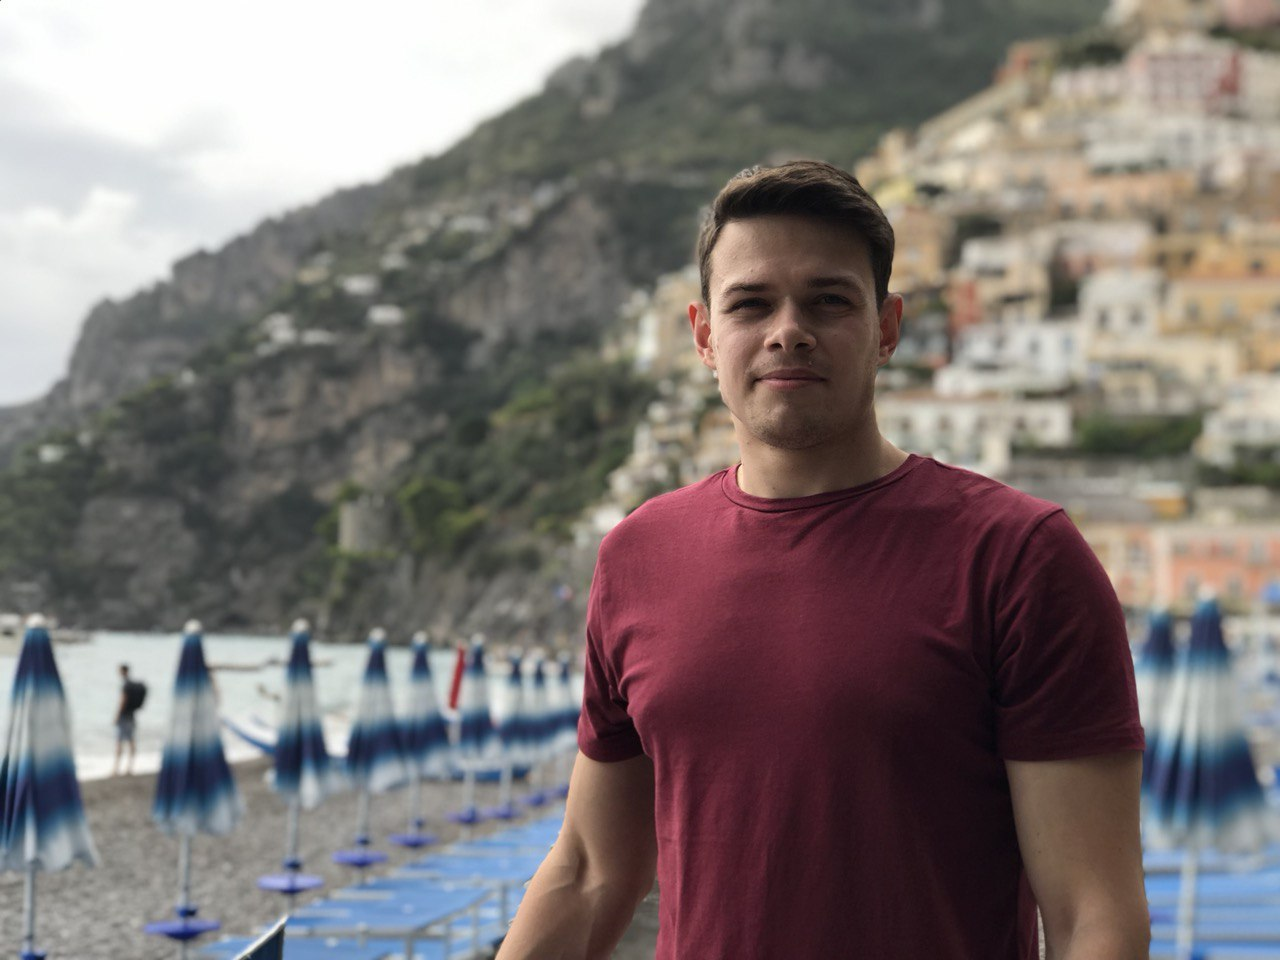
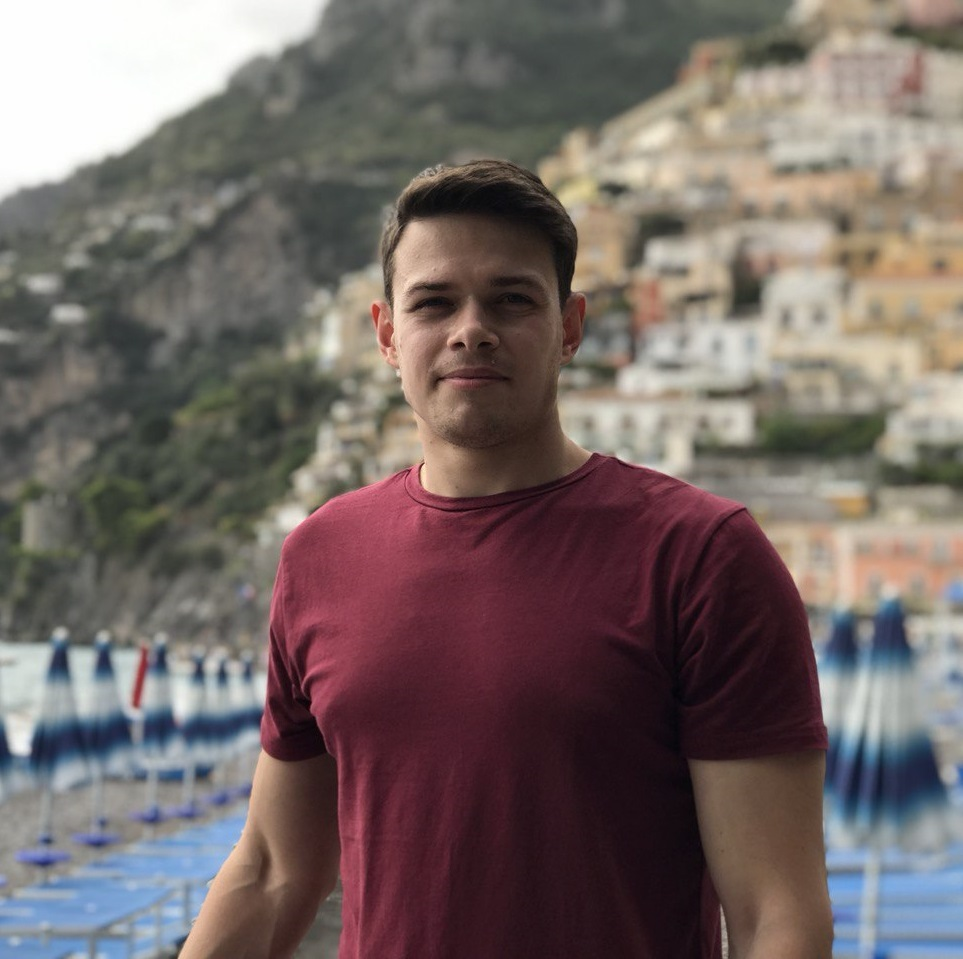
optimizing Hero Img

diff --git a/src/components/Hero/Hero.tsx b/src/components/Hero/Hero.tsx
@@ -46,7 +46,7 @@ export default function Hero({}: Props) {
         }}
         viewport={{ once: true }}
         className="rounded-full relative h-32 w-32 object-cover"
-        src="/static/tim-aivazov.png"
+        src="/static/tim-aivazov.jpg"
         alt="tim's hero image"
       />
       <div className="z-20">
